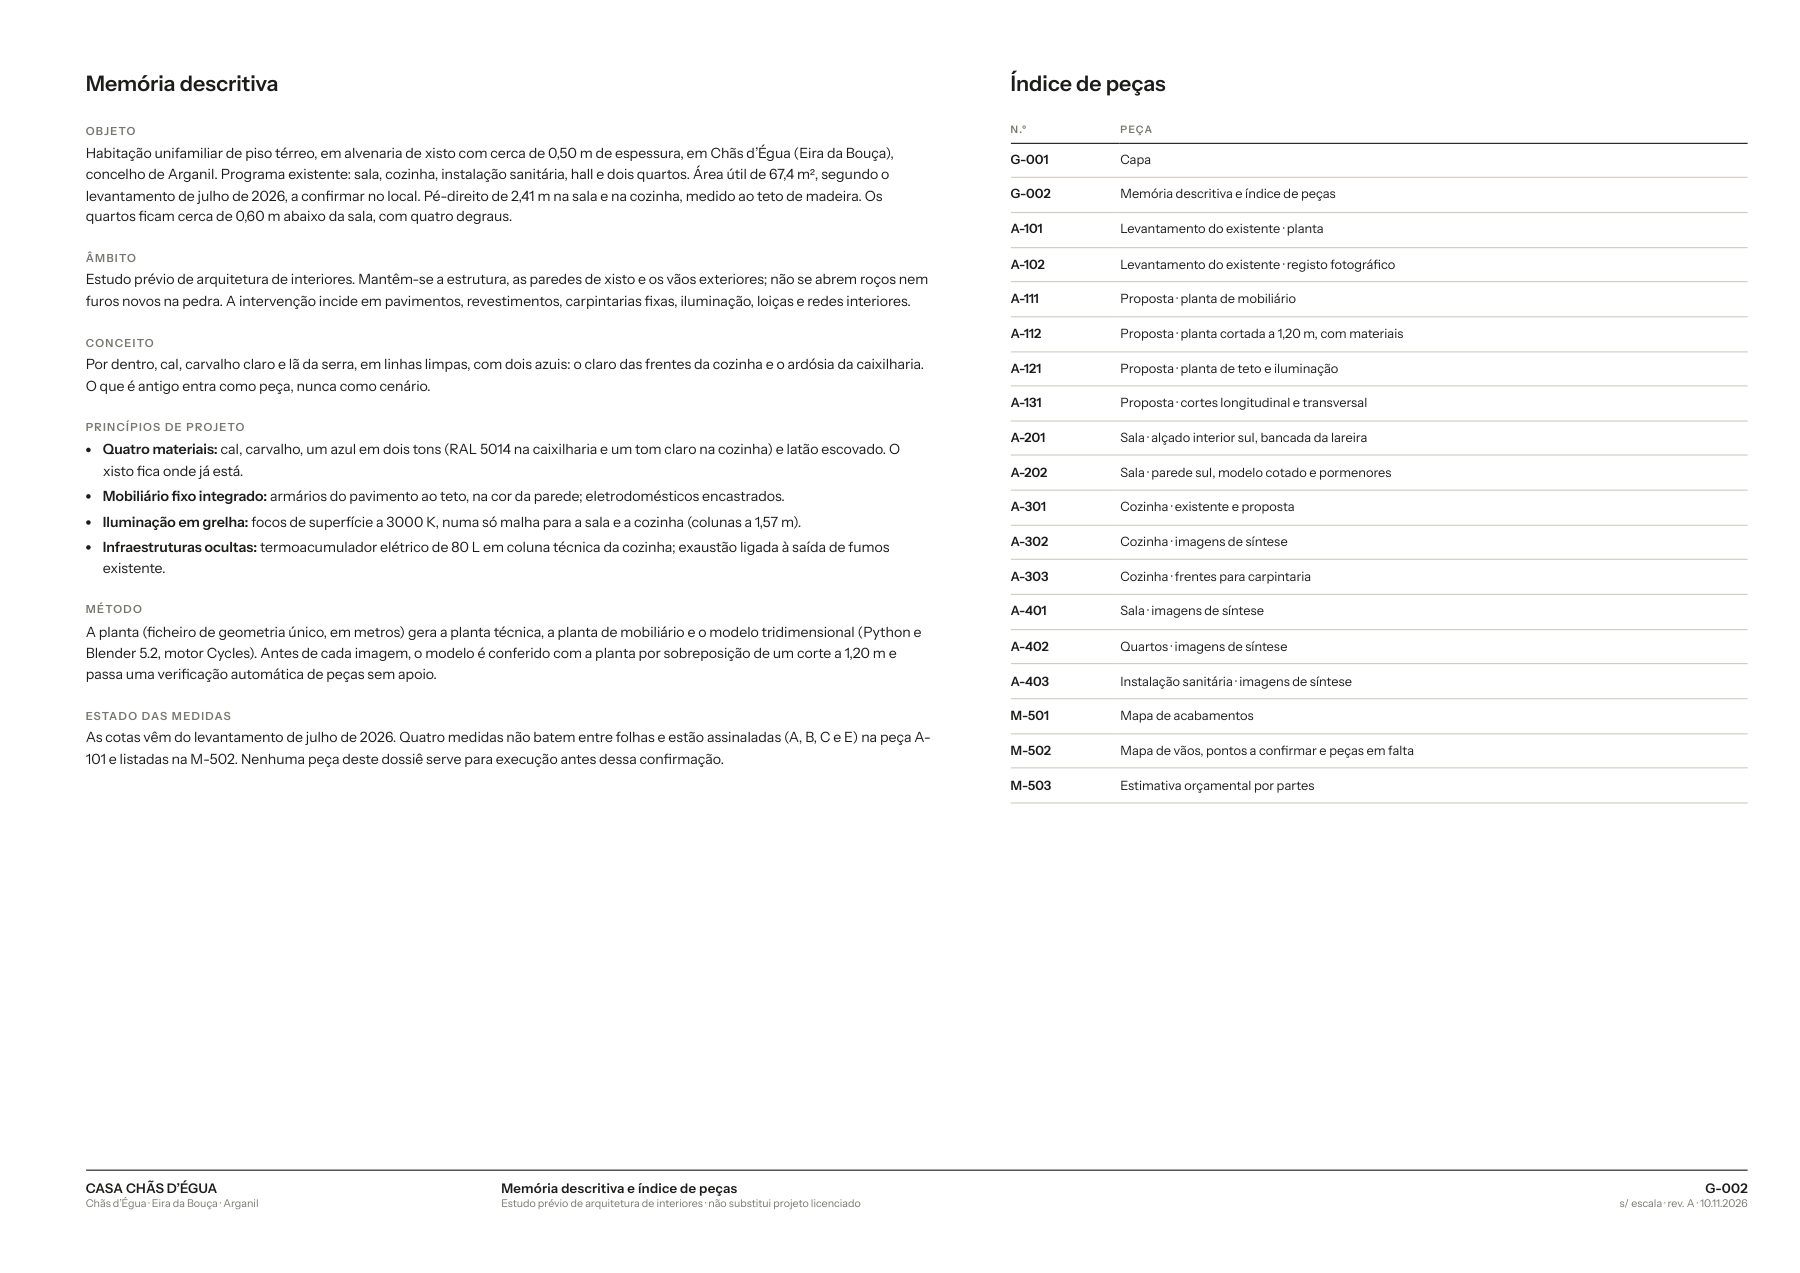
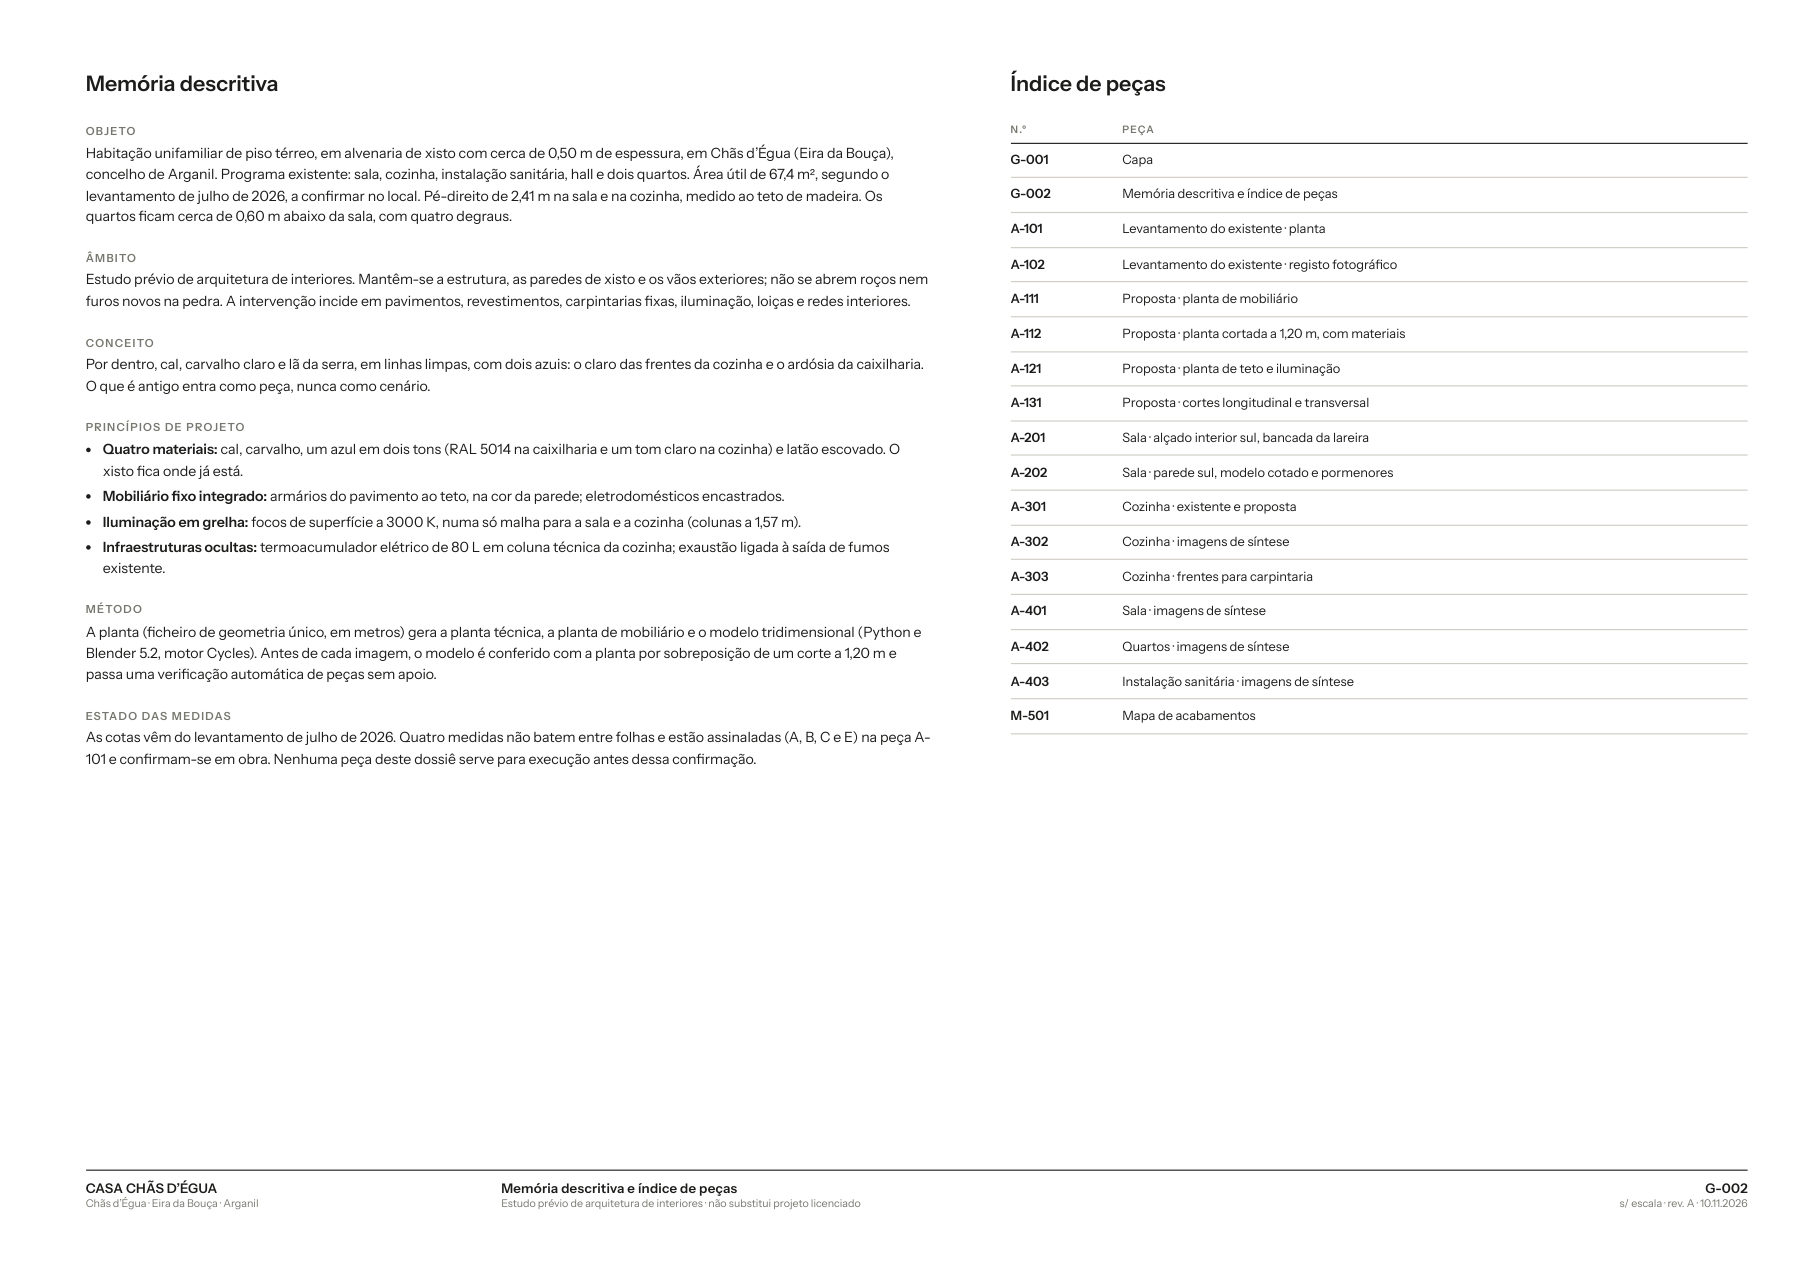
Estudo prévio sem M-502 e M-503

Changed region(s): [[0.6222, 0.1225, 0.7778, 0.6434], [0.0622, 0.5821, 0.4044, 0.6127], [0.56, 0.5821, 0.5911, 0.6434]]

diff --git a/doc/estudo-previo.html b/doc/estudo-previo.html
@@ -18,5 +18,5 @@ figcaption{margin-top:10px;font-size:14px;color:var(--cinza)}
 </style></head><body>
 <header><a href="../index.html#documentos" aria-label="Casa Chãs d’Égua, voltar ao projeto"><img class="logo" src="../marca/logo.svg" alt="" width="42" height="44"></a>
 <a class="voltar" href="../index.html#documentos"><svg viewBox="0 0 256 256" aria-hidden="true"><path d="M222,128a6,6,0,0,1-6,6H54.49l61.75,61.76a6,6,0,1,1-8.48,8.48l-72-72a6,6,0,0,1,0-8.48l72-72a6,6,0,0,1,8.48,8.48L54.49,122H216A6,6,0,0,1,222,128Z"/></svg>Voltar ao projeto</a></header>
-<div class="cab"><h1>Estudo prévio</h1><p>19 folhas em A3: plantas, cortes, vistas e mapa de acabamentos.</p></div>
-<main><figure><img src="ver/estudo-previo/01.jpg?v=13" width="1800" height="1273" alt="Estudo prévio, folha 1" loading="eager"><figcaption>Folha 1 de 19</figcaption></figure><figure><img src="ver/estudo-previo/02.jpg?v=13" width="1800" height="1273" alt="Estudo prévio, folha 2" loading="eager"><figcaption>Folha 2 de 19</figcaption></figure><figure><img src="ver/estudo-previo/03.jpg?v=13" width="1800" height="1273" alt="Estudo prévio, folha 3" loading="lazy"><figcaption>Folha 3 de 19</figcaption></figure><figure><img src="ver/estudo-previo/04.jpg?v=13" width="1800" height="1273" alt="Estudo prévio, folha 4" loading="lazy"><figcaption>Folha 4 de 19</figcaption></figure><figure><img src="ver/estudo-previo/05.jpg?v=13" width="1800" height="1273" alt="Estudo prévio, folha 5" loading="lazy"><figcaption>Folha 5 de 19</figcaption></figure><figure><img src="ver/estudo-previo/06.jpg?v=13" width="1800" height="1273" alt="Estudo prévio, folha 6" loading="lazy"><figcaption>Folha 6 de 19</figcaption></figure><figure><img src="ver/estudo-previo/07.jpg?v=13" width="1800" height="1273" alt="Estudo prévio, folha 7" loading="lazy"><figcaption>Folha 7 de 19</figcaption></figure><figure><img src="ver/estudo-previo/08.jpg?v=13" width="1800" height="1273" alt="Estudo prévio, folha 8" loading="lazy"><figcaption>Folha 8 de 19</figcaption></figure><figure><img src="ver/estudo-previo/09.jpg?v=13" width="1800" height="1273" alt="Estudo prévio, folha 9" loading="lazy"><figcaption>Folha 9 de 19</figcaption></figure><figure><img src="ver/estudo-previo/10.jpg?v=13" width="1800" height="1273" alt="Estudo prévio, folha 10" loading="lazy"><figcaption>Folha 10 de 19</figcaption></figure><figure><img src="ver/estudo-previo/11.jpg?v=13" width="1800" height="1273" alt="Estudo prévio, folha 11" loading="lazy"><figcaption>Folha 11 de 19</figcaption></figure><figure><img src="ver/estudo-previo/12.jpg?v=13" width="1800" height="1273" alt="Estudo prévio, folha 12" loading="lazy"><figcaption>Folha 12 de 19</figcaption></figure><figure><img src="ver/estudo-previo/13.jpg?v=13" width="1800" height="1273" alt="Estudo prévio, folha 13" loading="lazy"><figcaption>Folha 13 de 19</figcaption></figure><figure><img src="ver/estudo-previo/14.jpg?v=13" width="1800" height="1273" alt="Estudo prévio, folha 14" loading="lazy"><figcaption>Folha 14 de 19</figcaption></figure><figure><img src="ver/estudo-previo/15.jpg?v=13" width="1800" height="1273" alt="Estudo prévio, folha 15" loading="lazy"><figcaption>Folha 15 de 19</figcaption></figure><figure><img src="ver/estudo-previo/16.jpg?v=13" width="1800" height="1273" alt="Estudo prévio, folha 16" loading="lazy"><figcaption>Folha 16 de 19</figcaption></figure><figure><img src="ver/estudo-previo/17.jpg?v=13" width="1800" height="1273" alt="Estudo prévio, folha 17" loading="lazy"><figcaption>Folha 17 de 19</figcaption></figure><figure><img src="ver/estudo-previo/18.jpg?v=13" width="1800" height="1273" alt="Estudo prévio, folha 18" loading="lazy"><figcaption>Folha 18 de 19</figcaption></figure><figure><img src="ver/estudo-previo/19.jpg?v=13" width="1800" height="1273" alt="Estudo prévio, folha 19" loading="lazy"><figcaption>Folha 19 de 19</figcaption></figure></main></body></html>
+<div class="cab"><h1>Estudo prévio</h1><p>17 folhas em A3: plantas, cortes, vistas e mapa de acabamentos.</p></div>
+<main><figure><img src="ver/estudo-previo/01.jpg?v=14" width="1800" height="1273" alt="Estudo prévio, folha 1" loading="eager"><figcaption>Folha 1 de 17</figcaption></figure><figure><img src="ver/estudo-previo/02.jpg?v=14" width="1800" height="1273" alt="Estudo prévio, folha 2" loading="eager"><figcaption>Folha 2 de 17</figcaption></figure><figure><img src="ver/estudo-previo/03.jpg?v=14" width="1800" height="1273" alt="Estudo prévio, folha 3" loading="lazy"><figcaption>Folha 3 de 17</figcaption></figure><figure><img src="ver/estudo-previo/04.jpg?v=14" width="1800" height="1273" alt="Estudo prévio, folha 4" loading="lazy"><figcaption>Folha 4 de 17</figcaption></figure><figure><img src="ver/estudo-previo/05.jpg?v=14" width="1800" height="1273" alt="Estudo prévio, folha 5" loading="lazy"><figcaption>Folha 5 de 17</figcaption></figure><figure><img src="ver/estudo-previo/06.jpg?v=14" width="1800" height="1273" alt="Estudo prévio, folha 6" loading="lazy"><figcaption>Folha 6 de 17</figcaption></figure><figure><img src="ver/estudo-previo/07.jpg?v=14" width="1800" height="1273" alt="Estudo prévio, folha 7" loading="lazy"><figcaption>Folha 7 de 17</figcaption></figure><figure><img src="ver/estudo-previo/08.jpg?v=14" width="1800" height="1273" alt="Estudo prévio, folha 8" loading="lazy"><figcaption>Folha 8 de 17</figcaption></figure><figure><img src="ver/estudo-previo/09.jpg?v=14" width="1800" height="1273" alt="Estudo prévio, folha 9" loading="lazy"><figcaption>Folha 9 de 17</figcaption></figure><figure><img src="ver/estudo-previo/10.jpg?v=14" width="1800" height="1273" alt="Estudo prévio, folha 10" loading="lazy"><figcaption>Folha 10 de 17</figcaption></figure><figure><img src="ver/estudo-previo/11.jpg?v=14" width="1800" height="1273" alt="Estudo prévio, folha 11" loading="lazy"><figcaption>Folha 11 de 17</figcaption></figure><figure><img src="ver/estudo-previo/12.jpg?v=14" width="1800" height="1273" alt="Estudo prévio, folha 12" loading="lazy"><figcaption>Folha 12 de 17</figcaption></figure><figure><img src="ver/estudo-previo/13.jpg?v=14" width="1800" height="1273" alt="Estudo prévio, folha 13" loading="lazy"><figcaption>Folha 13 de 17</figcaption></figure><figure><img src="ver/estudo-previo/14.jpg?v=14" width="1800" height="1273" alt="Estudo prévio, folha 14" loading="lazy"><figcaption>Folha 14 de 17</figcaption></figure><figure><img src="ver/estudo-previo/15.jpg?v=14" width="1800" height="1273" alt="Estudo prévio, folha 15" loading="lazy"><figcaption>Folha 15 de 17</figcaption></figure><figure><img src="ver/estudo-previo/16.jpg?v=14" width="1800" height="1273" alt="Estudo prévio, folha 16" loading="lazy"><figcaption>Folha 16 de 17</figcaption></figure><figure><img src="ver/estudo-previo/17.jpg?v=14" width="1800" height="1273" alt="Estudo prévio, folha 17" loading="lazy"><figcaption>Folha 17 de 17</figcaption></figure></main></body></html>

diff --git a/doc/casa-de-chas-de-egua.html b/doc/casa-de-chas-de-egua.html
@@ -19,4 +19,4 @@ figcaption{margin-top:10px;font-size:14px;color:var(--cinza)}
 <header><a href="../index.html#documentos" aria-label="Casa Chãs d’Égua, voltar ao projeto"><img class="logo" src="../marca/logo.svg" alt="" width="42" height="44"></a>
 <a class="voltar" href="../index.html#documentos"><svg viewBox="0 0 256 256" aria-hidden="true"><path d="M222,128a6,6,0,0,1-6,6H54.49l61.75,61.76a6,6,0,1,1-8.48,8.48l-72-72a6,6,0,0,1,0-8.48l72-72a6,6,0,0,1,8.48,8.48L54.49,122H216A6,6,0,0,1,222,128Z"/></svg>Voltar ao projeto</a></header>
 <div class="cab"><h1>A casa por dentro</h1><p>As vistas interiores em página inteira.</p></div>
-<main><figure><img src="ver/casa-de-chas-de-egua/01.jpg?v=13" width="1800" height="1275" alt="A casa por dentro, folha 1" loading="eager"><figcaption>Folha 1 de 15</figcaption></figure><figure><img src="ver/casa-de-chas-de-egua/02.jpg?v=13" width="1800" height="1275" alt="A casa por dentro, folha 2" loading="eager"><figcaption>Folha 2 de 15</figcaption></figure><figure><img src="ver/casa-de-chas-de-egua/03.jpg?v=13" width="1800" height="1275" alt="A casa por dentro, folha 3" loading="lazy"><figcaption>Folha 3 de 15</figcaption></figure><figure><img src="ver/casa-de-chas-de-egua/04.jpg?v=13" width="1800" height="1275" alt="A casa por dentro, folha 4" loading="lazy"><figcaption>Folha 4 de 15</figcaption></figure><figure><img src="ver/casa-de-chas-de-egua/05.jpg?v=13" width="1800" height="1275" alt="A casa por dentro, folha 5" loading="lazy"><figcaption>Folha 5 de 15</figcaption></figure><figure><img src="ver/casa-de-chas-de-egua/06.jpg?v=13" width="1800" height="1275" alt="A casa por dentro, folha 6" loading="lazy"><figcaption>Folha 6 de 15</figcaption></figure><figure><img src="ver/casa-de-chas-de-egua/07.jpg?v=13" width="1800" height="1275" alt="A casa por dentro, folha 7" loading="lazy"><figcaption>Folha 7 de 15</figcaption></figure><figure><img src="ver/casa-de-chas-de-egua/08.jpg?v=13" width="1800" height="1275" alt="A casa por dentro, folha 8" loading="lazy"><figcaption>Folha 8 de 15</figcaption></figure><figure><img src="ver/casa-de-chas-de-egua/09.jpg?v=13" width="1800" height="1275" alt="A casa por dentro, folha 9" loading="lazy"><figcaption>Folha 9 de 15</figcaption></figure><figure><img src="ver/casa-de-chas-de-egua/10.jpg?v=13" width="1800" height="1275" alt="A casa por dentro, folha 10" loading="lazy"><figcaption>Folha 10 de 15</figcaption></figure><figure><img src="ver/casa-de-chas-de-egua/11.jpg?v=13" width="1800" height="1275" alt="A casa por dentro, folha 11" loading="lazy"><figcaption>Folha 11 de 15</figcaption></figure><figure><img src="ver/casa-de-chas-de-egua/12.jpg?v=13" width="1800" height="1275" alt="A casa por dentro, folha 12" loading="lazy"><figcaption>Folha 12 de 15</figcaption></figure><figure><img src="ver/casa-de-chas-de-egua/13.jpg?v=13" width="1800" height="1275" alt="A casa por dentro, folha 13" loading="lazy"><figcaption>Folha 13 de 15</figcaption></figure><figure><img src="ver/casa-de-chas-de-egua/14.jpg?v=13" width="1800" height="1275" alt="A casa por dentro, folha 14" loading="lazy"><figcaption>Folha 14 de 15</figcaption></figure><figure><img src="ver/casa-de-chas-de-egua/15.jpg?v=13" width="1800" height="1275" alt="A casa por dentro, folha 15" loading="lazy"><figcaption>Folha 15 de 15</figcaption></figure></main></body></html>
+<main><figure><img src="ver/casa-de-chas-de-egua/01.jpg?v=14" width="1800" height="1275" alt="A casa por dentro, folha 1" loading="eager"><figcaption>Folha 1 de 15</figcaption></figure><figure><img src="ver/casa-de-chas-de-egua/02.jpg?v=14" width="1800" height="1275" alt="A casa por dentro, folha 2" loading="eager"><figcaption>Folha 2 de 15</figcaption></figure><figure><img src="ver/casa-de-chas-de-egua/03.jpg?v=14" width="1800" height="1275" alt="A casa por dentro, folha 3" loading="lazy"><figcaption>Folha 3 de 15</figcaption></figure><figure><img src="ver/casa-de-chas-de-egua/04.jpg?v=14" width="1800" height="1275" alt="A casa por dentro, folha 4" loading="lazy"><figcaption>Folha 4 de 15</figcaption></figure><figure><img src="ver/casa-de-chas-de-egua/05.jpg?v=14" width="1800" height="1275" alt="A casa por dentro, folha 5" loading="lazy"><figcaption>Folha 5 de 15</figcaption></figure><figure><img src="ver/casa-de-chas-de-egua/06.jpg?v=14" width="1800" height="1275" alt="A casa por dentro, folha 6" loading="lazy"><figcaption>Folha 6 de 15</figcaption></figure><figure><img src="ver/casa-de-chas-de-egua/07.jpg?v=14" width="1800" height="1275" alt="A casa por dentro, folha 7" loading="lazy"><figcaption>Folha 7 de 15</figcaption></figure><figure><img src="ver/casa-de-chas-de-egua/08.jpg?v=14" width="1800" height="1275" alt="A casa por dentro, folha 8" loading="lazy"><figcaption>Folha 8 de 15</figcaption></figure><figure><img src="ver/casa-de-chas-de-egua/09.jpg?v=14" width="1800" height="1275" alt="A casa por dentro, folha 9" loading="lazy"><figcaption>Folha 9 de 15</figcaption></figure><figure><img src="ver/casa-de-chas-de-egua/10.jpg?v=14" width="1800" height="1275" alt="A casa por dentro, folha 10" loading="lazy"><figcaption>Folha 10 de 15</figcaption></figure><figure><img src="ver/casa-de-chas-de-egua/11.jpg?v=14" width="1800" height="1275" alt="A casa por dentro, folha 11" loading="lazy"><figcaption>Folha 11 de 15</figcaption></figure><figure><img src="ver/casa-de-chas-de-egua/12.jpg?v=14" width="1800" height="1275" alt="A casa por dentro, folha 12" loading="lazy"><figcaption>Folha 12 de 15</figcaption></figure><figure><img src="ver/casa-de-chas-de-egua/13.jpg?v=14" width="1800" height="1275" alt="A casa por dentro, folha 13" loading="lazy"><figcaption>Folha 13 de 15</figcaption></figure><figure><img src="ver/casa-de-chas-de-egua/14.jpg?v=14" width="1800" height="1275" alt="A casa por dentro, folha 14" loading="lazy"><figcaption>Folha 14 de 15</figcaption></figure><figure><img src="ver/casa-de-chas-de-egua/15.jpg?v=14" width="1800" height="1275" alt="A casa por dentro, folha 15" loading="lazy"><figcaption>Folha 15 de 15</figcaption></figure></main></body></html>

diff --git a/index.html b/index.html
@@ -1145,7 +1145,7 @@ html body img.logo{background:none!important;box-shadow:none!important;border:0!
           <li><a href="passeio/index.html"><strong>A casa em 3D</strong><em>Planta que se ergue, divisões por dentro e cores para escolher.</em><span class="seta">Abrir <svg class="ph seta-i" viewBox="0 0 256 256" aria-hidden="true"><path d="M220.24,132.24l-72,72a6,6,0,0,1-8.48-8.48L201.51,134H40a6,6,0,0,1,0-12H201.51L139.76,60.24a6,6,0,0,1,8.48-8.48l72,72A6,6,0,0,1,220.24,132.24Z"/></svg></span></a></li>
         </ul></div>
         <div><h3 class="docs-t">Ficheiros para descarregar</h3><ul class="docs">
-          <li><a href="doc/estudo-previo.html"><strong>Estudo prévio</strong><em>19 folhas em A3: plantas, cortes, vistas e mapa de acabamentos.</em><span class="seta">Ver · 19 folhas <svg class="ph seta-i" viewBox="0 0 256 256" aria-hidden="true"><path d="M220.24,132.24l-72,72a6,6,0,0,1-8.48-8.48L201.51,134H40a6,6,0,0,1,0-12H201.51L139.76,60.24a6,6,0,0,1,8.48-8.48l72,72A6,6,0,0,1,220.24,132.24Z"/></svg></span></a></li>
+          <li><a href="doc/estudo-previo.html"><strong>Estudo prévio</strong><em>17 folhas em A3: plantas, cortes, vistas e mapa de acabamentos.</em><span class="seta">Ver · 17 folhas <svg class="ph seta-i" viewBox="0 0 256 256" aria-hidden="true"><path d="M220.24,132.24l-72,72a6,6,0,0,1-8.48-8.48L201.51,134H40a6,6,0,0,1,0-12H201.51L139.76,60.24a6,6,0,0,1,8.48-8.48l72,72A6,6,0,0,1,220.24,132.24Z"/></svg></span></a></li>
           <li><a href="doc/casa-de-chas-de-egua.html"><strong>A casa por dentro</strong><em>As vistas interiores em página inteira.</em><span class="seta">Ver · 15 folhas <svg class="ph seta-i" viewBox="0 0 256 256" aria-hidden="true"><path d="M220.24,132.24l-72,72a6,6,0,0,1-8.48-8.48L201.51,134H40a6,6,0,0,1,0-12H201.51L139.76,60.24a6,6,0,0,1,8.48-8.48l72,72A6,6,0,0,1,220.24,132.24Z"/></svg></span></a></li>
           <li><a href="doc/frentes-cozinha-para-o-carpinteiro.html"><strong>Frentes da cozinha</strong><em>Lista de frentes e puxadores para orçamento.</em><span class="seta">Ver · 1 folha <svg class="ph seta-i" viewBox="0 0 256 256" aria-hidden="true"><path d="M220.24,132.24l-72,72a6,6,0,0,1-8.48-8.48L201.51,134H40a6,6,0,0,1,0-12H201.51L139.76,60.24a6,6,0,0,1,8.48-8.48l72,72A6,6,0,0,1,220.24,132.24Z"/></svg></span></a></li>
           <li><a href="img/planta-existente.svg"><strong>Planta do existente</strong><em>Levantamento em metros. O DXF para CAD envia-se a pedido.</em><span class="seta">Ver planta <svg class="ph seta-i" viewBox="0 0 256 256" aria-hidden="true"><path d="M220.24,132.24l-72,72a6,6,0,0,1-8.48-8.48L201.51,134H40a6,6,0,0,1,0-12H201.51L139.76,60.24a6,6,0,0,1,8.48-8.48l72,72A6,6,0,0,1,220.24,132.24Z"/></svg></span></a></li>

diff --git a/doc/frentes-cozinha-para-o-carpinteiro.html b/doc/frentes-cozinha-para-o-carpinteiro.html
@@ -19,4 +19,4 @@ figcaption{margin-top:10px;font-size:14px;color:var(--cinza)}
 <header><a href="../index.html#documentos" aria-label="Casa Chãs d’Égua, voltar ao projeto"><img class="logo" src="../marca/logo.svg" alt="" width="42" height="44"></a>
 <a class="voltar" href="../index.html#documentos"><svg viewBox="0 0 256 256" aria-hidden="true"><path d="M222,128a6,6,0,0,1-6,6H54.49l61.75,61.76a6,6,0,1,1-8.48,8.48l-72-72a6,6,0,0,1,0-8.48l72-72a6,6,0,0,1,8.48,8.48L54.49,122H216A6,6,0,0,1,222,128Z"/></svg>Voltar ao projeto</a></header>
 <div class="cab"><h1>Frentes da cozinha</h1><p>Lista de frentes e puxadores para orçamento.</p></div>
-<main><figure><img src="ver/frentes-cozinha-para-o-carpinteiro/01.jpg?v=13" width="1273" height="1800" alt="Frentes da cozinha, folha 1" loading="eager"><figcaption>Folha 1 de 1</figcaption></figure></main></body></html>
+<main><figure><img src="ver/frentes-cozinha-para-o-carpinteiro/01.jpg?v=14" width="1273" height="1800" alt="Frentes da cozinha, folha 1" loading="eager"><figcaption>Folha 1 de 1</figcaption></figure></main></body></html>
